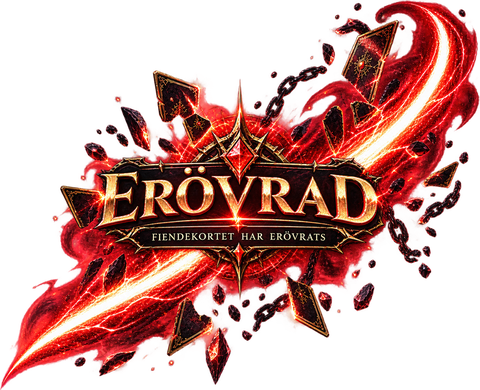
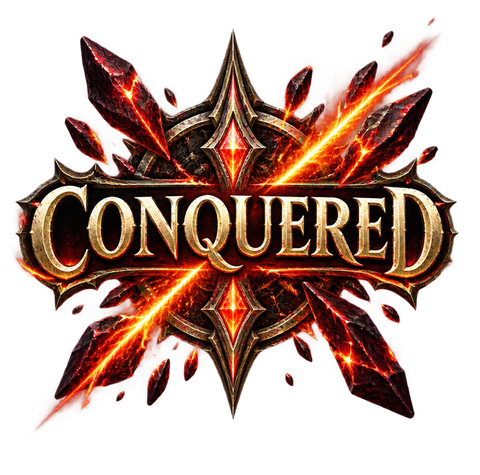
Fas 14: rebuild the "Conquered" badge -- English text, new art, per-cell
Replaces conquered-badge.png / conquered-badge-red.png with new
AI-generated art (English "CONQUERED" text, matching blue/red lightning
theme, cropped and downscaled from the user's supplied image) and
redesigns the whole delivery mechanism: from one big banner centered over
the entire arena into a small badge rendered directly on each captured
cell.

The old design needed its own showConquestPopup()/conquestPopupToken/
CONQUEST_BANNER_MS machinery specifically because a single shared image
couldn't represent more than one captured cell at once (a Same/Plus/Combo
chain or an AOE Ultimate can flip several cells in one action). The new
badge is gated directly on cell.justFlipped in boardCellHtml -- the same
flag that already drives the card's own flip animation and its existing
~1300ms cleanup -- so one instance renders per captured cell with no
separate state or timer needed. advanceTurn's AI pacing now reads
state.board.some(e => e && e.justFlipped) instead of the removed
conquestPopup flag (renamed CONQUEST_BANNER_MS -> CAPTURE_PAUSE_MS).

Three existing tests rewritten for the per-cell model (one of them
covered a bug class -- a stale flag falsely re-triggering the old GLOBAL
banner -- that structurally can't happen any more with per-cell state).
Two new tests added (red vs blue art, two simultaneous captures render
two independent badges). 143/143 green. Playwright-verified.

Claude-Session: https://claude.ai/code/session_01QUCTQPAAwJck4JUBJwvaoa

diff --git a/index.html b/index.html
@@ -1114,7 +1114,7 @@ button.end-turn:hover{ background:linear-gradient(180deg, rgba(139,110,242,0.3),
 }
 /* Fast Mode (see toggleFastMode()) -- only speeds up the ROUTINE per-move
    feedback a repeat player sits through every single flip/turn (this
-   variable, read by .cell .card.flipping/captureRing*/.conquest-banner
+   variable, read by .cell .card.flipping/captureRing*/.conquered-badge-small
    below), not the rare Ultimate cast sequences: those are the spectacle
    payoff, not friction, so they keep their full designed length even with
    Fast Mode on. */
@@ -1256,30 +1256,36 @@ button.end-turn:hover{ background:linear-gradient(180deg, rgba(139,110,242,0.3),
 .soul-star{ fill:#f2fff8; animation:soulStarTwinkle ease-in-out infinite; }
 @keyframes soulStarTwinkle{ 0%,100%{ opacity:0.25; } 50%{ opacity:1; } }
 
-/* "Conquered!" banner — a bigger, one-off flourish on top of the routine
-   attack slash. state.conquestPopup holds the owner ('blue'/'red') whose
-   capture triggered it, and the <img>'s src picks the matching artwork —
-   conquered-badge.png for the player, conquered-badge-red.png for the AI
-   (see showConquestPopup()) — since each piece is written from that
-   side's own perspective, not a generic "someone won" graphic. Centered
-   on .arena-frame rather than anchored to the captured cell: Same/Plus/
-   Combo can flip several cells in one placement, so a single
-   card-anchored popup wouldn't have one obvious home anyway. */
-.conquest-banner{
-  position:absolute; z-index:20; top:50%; left:50%;
-  /* Shrunk from 62%/340px (user feedback: "syns för mkt och förstör" --
-     it covered too much of the board and obscured the actual result). */
-  width:40%; max-width:210px;
-  transform:translate(-50%,-50%) scale(0.55);
-  opacity:0; pointer-events:none;
-  filter:drop-shadow(0 6px 22px rgba(0,0,0,0.65));
-  animation: conquestPop calc(1.4s * var(--fx-speed,1)) cubic-bezier(.2,.9,.25,1) forwards;
+/* "Conquered" badge — redesigned per the user's own request ("skriv
+   något coolare... röd och blå" + new AI-generated art) from a single
+   big banner centered over the WHOLE arena into a small badge that pops
+   up directly ON the specific cell that just got captured. This also
+   fixes a real limitation the old centered design had to work around: a
+   Same/Plus/Combo chain or an AOE Ultimate can flip several cells in one
+   action, and one big central image could never show "whose card is
+   whose" for more than one of them at once -- a per-cell badge has no
+   such problem, one instance renders per captured cell (see boardCellHtml,
+   gated on cell.justFlipped, the exact same flag that already drives the
+   card's own flip animation and its ~1300ms/fxTime(1300) cleanup window
+   used throughout placeCard/playUltimateSequence -- no separate timer or
+   state needed here). --fx-delay comes from cell.fxDelay, the same
+   Same/Plus/Combo chain stagger every other per-cell effect already uses,
+   so a multi-flip chain shows its badges cascading in one after another
+   instead of all popping in on the same frame. Src picks conquered-badge.png
+   (blue) or conquered-badge-red.png (red/AI) by cell.owner -- the capturing
+   side, read directly off the entry since a flip already updates .owner. */
+.conquered-badge-small{
+  position:absolute; z-index:6; left:50%; top:50%; width:80%; height:auto;
+  pointer-events:none;
+  filter:drop-shadow(0 3px 10px rgba(0,0,0,0.7));
+  opacity:0;
+  animation: conqueredBadgePop calc(1.05s * var(--fx-speed,1)) cubic-bezier(.2,.9,.25,1) both;
 }
-@keyframes conquestPop{
-  0%{ opacity:0; transform:translate(-50%,-50%) scale(0.55) rotate(-4deg); }
-  14%{ opacity:1; transform:translate(-50%,-50%) scale(1.08) rotate(1deg); }
-  24%{ transform:translate(-50%,-50%) scale(1) rotate(0deg); }
-  78%{ opacity:1; transform:translate(-50%,-50%) scale(1) rotate(0deg); }
+@keyframes conqueredBadgePop{
+  0%{ opacity:0; transform:translate(-50%,-50%) scale(0.45) rotate(-8deg); }
+  16%{ opacity:1; transform:translate(-50%,-50%) scale(1.1) rotate(3deg); }
+  28%{ transform:translate(-50%,-50%) scale(1) rotate(0deg); }
+  74%{ opacity:1; transform:translate(-50%,-50%) scale(1) rotate(0deg); }
   100%{ opacity:0; transform:translate(-50%,-50%) scale(0.92) rotate(0deg); }
 }
 
@@ -4415,7 +4421,6 @@ let state = {
   showSisterLore: false,  // true while the Triple Triad Sisters' backstory panel is expanded (Campaign stage 17 only)
   showGraveyard: false,   // true while the Graveyard panel (optional rule) is expanded
   winsPopup: null,        // { owner, amount } — transient "+N Wins!" toast
-  conquestPopup: false,   // false, or 'blue'/'red' while that side's "Conquered!" banner is showing
   chainShake: false,      // true briefly after a large Same/Plus/Combo chain (see placeCard) — .arena-frame.chain-shake
   impactPunch: false,     // true briefly at the exact moment ANY Ultimate's effect lands (every card, not magnitude-gated like chainShake) — .board.impact-punch, see playUltimateSequence
   ultimateBanner: null,   // { phase:'cast'|'impact', owner, name, sourceIndex } while an Ultimate's windup/impact sequence plays — see runSpecialResolution/playUltimateSequence
@@ -5087,6 +5092,7 @@ function boardCellHtml(cell, i, previewVulnerable){
           specialInfo, specialActive: !!(state.specialMode && state.specialMode.sourceIndex === i)
         }) : (ghost ? cardFace(ghost.card, { owner:ghost.owner, destroyed:true, noInfo:true }) : '')}
       ${capturePreview && capturePreview.captures > 0 ? `<div class="capture-badge">⚔ ${capturePreview.captures}</div>` : ''}
+      ${cell && cell.justFlipped ? `<img class="conquered-badge-small" src="conquered-badge${cell.owner === 'red' ? '-red' : ''}.png" alt="Conquered" aria-hidden="true" style="animation-delay:${cell.fxDelay || 0}ms;">` : ''}
     </div>
   `;
 }
@@ -5881,7 +5887,6 @@ function renderBattle(){
           `).join('')}
         </div>
       ` : ''}
-      ${state.conquestPopup ? `<img class="conquest-banner" src="conquered-badge${state.conquestPopup === 'red' ? '-red' : ''}.png" alt="Conquered!">` : ''}
       ${state.ultimateBanner ? `
         <div class="ultimate-banner ultimate-banner-${state.ultimateBanner.phase} owner-${state.ultimateBanner.owner}">
           <div class="ultimate-banner-label">${state.ultimateBanner.owner === 'blue' ? 'Special Attack' : "Forest's Special Attack"}</div>
@@ -7481,42 +7486,30 @@ function isShielded(targetEntry, targetIndex){
   return false;
 }
 
-// "Conquered!" banner — one piece of art per side (conquered-badge.png for
-// the player, conquered-badge-red.png for the AI), each written from that
-// side's own perspective, so both captures get the flourish now. Uses a
-// token instead of a bare setTimeout so that a second capture landing
-// while the first banner is still up (e.g. a placement capture immediately
-// followed by a special) restarts the window instead of the earlier timer
-// clearing it out from under the newer one. Duration must match
-// .conquest-banner's `conquestPop` animation length in the CSS below —
-// bumped from an original 1s to 1.4s after playtester feedback that
-// captures (this banner included) flew by too fast to actually see.
-const CONQUEST_BANNER_MS = 1400;
+// Game-feel pacing: how long to make the AI wait after a capture before
+// acting, so the player actually gets to see the small per-cell
+// "Conquered" badge land (see boardCellHtml/.conquered-badge-small)
+// before the next move piles more animation on top. Redesigned away from
+// a single big centered banner (see PROJECT.md) into a badge rendered
+// directly on each captured cell, gated on cell.justFlipped -- the same
+// flag that already drives the card's own flip animation and its
+// ~1300ms/fxTime(1300) cleanup window, so no separate popup state/token
+// is needed any more; advanceTurn below just checks state.board directly
+// for that same flag instead of a dedicated conquestPopup field.
+const CAPTURE_PAUSE_MS = 1400;
 
 // Fast Mode (see toggleFastMode()): scales the ROUTINE per-move waits a
-// repeat player sits through every match -- flip stagger, conquest banner,
-// short between-turn pauses -- down to a snappier pace. Deliberately NOT
+// repeat player sits through every match -- flip stagger, the capture
+// pause, short between-turn pauses -- down to a snappier pace. Deliberately NOT
 // applied to ULTIMATE_WINDUP_MS/SHAKE_MS/CLEANUP_MS below: those gate the
 // rare Special-cast spectacle sequences, which are the payoff a player is
 // watching FOR, not friction to cut. Keep this numerically in sync with
 // .arena-frame.fast-mode's --fx-speed in the CSS above -- both scale the
-// same on-screen moment (the flip/banner animation is CSS-timed; this is
+// same on-screen moment (the flip/badge animation is CSS-timed; this is
 // how long JS then waits before the next render/turn).
 const FAST_MODE_SCALE = 0.4;
 function fxTime(ms){
   return state.fastMode ? Math.round(ms * FAST_MODE_SCALE) : ms;
-}
-
-let conquestPopupToken = 0;
-function showConquestPopup(owner){
-  const token = ++conquestPopupToken;
-  state.conquestPopup = owner;
-  setTimeout(()=>{
-    if(conquestPopupToken === token){
-      state.conquestPopup = false;
-      render();
-    }
-  }, fxTime(CONQUEST_BANNER_MS));
 }
 
 // On-placement effects for the Triple Triad Sisters (Void Touch/Undying
@@ -7855,7 +7848,6 @@ function placeCard(cellIndex, cardId, owner){
   }
   if(flips > 0) state.wins[owner] += flips;
   if(flips > 0) state.winsPopup = { owner, amount: flips };
-  if(flips > 0) showConquestPopup(owner);
   if(flips > 0) setTimeout(()=> SFX.flip(flips), fxTime(120));
   if(shielded > 0) setTimeout(()=> SFX.shield(), fxTime(90));
   if(bonusTriggered) setTimeout(()=> SFX.bonus(), fxTime(shielded > 0 ? 260 : 90));
@@ -7915,10 +7907,12 @@ function advanceTurn(owner){
     setTimeout(finishGame, fxTime(500));
     return;
   }
-  // A capture just happened (conquest banner still up) → give the player
-  // a beat to actually see it before the AI's own flip/slash/banner pile
-  // on top. No capture → keep the old snappy pace, nothing to catch up on.
-  const nextTurnDelay = state.conquestPopup ? fxTime(CONQUEST_BANNER_MS + 200) : fxTime(700);
+  // A capture just happened (some cell is still mid-flip, see
+  // cell.justFlipped/.conquered-badge-small) → give the player a beat to
+  // actually see it before the AI's own flip/slash/badge pile on top. No
+  // capture → keep the old snappy pace, nothing to catch up on.
+  const capturedJustNow = state.board.some(e => e && e.justFlipped);
+  const nextTurnDelay = capturedJustNow ? fxTime(CAPTURE_PAUSE_MS + 200) : fxTime(700);
   if(state.extraTurnPending === owner){
     state.extraTurnPending = null;
     state.placedThisTurn = false;
@@ -9785,7 +9779,7 @@ function playUltimateSequence(job){
   render();
 
   setTimeout(()=>{
-    if(ultimateBannerToken !== token) return; // superseded — shouldn't happen given the queue above, but matches showConquestPopup's own safety pattern
+    if(ultimateBannerToken !== token) return; // superseded — shouldn't happen given the queue above, same token-guard pattern used throughout this file
     srcEntry.ultimateCasting = false;
 
     // Phase 2: the hit visually LANDS now -- banner switches to its
@@ -9824,9 +9818,6 @@ function playUltimateSequence(job){
       state.board.forEach((e, i) => { if(e && e.justFlipped) alreadyFlipped.add(i); });
       state.log = handler({ srcEntry, sourceIndex, targetEntry, targetIndex, owner, ...extra });
       const capturedCount = state.board.filter((e, i) => e && e.owner === owner && e.justFlipped && !alreadyFlipped.has(i)).length;
-      if(capturedCount > 0){
-        showConquestPopup(owner);
-      }
       // Same magnitude-gated shake as phase 3's Same/Combo chains (see
       // placeCard) — a big Ultimate sweep feels like a big chain, reuses the
       // same .arena-frame.chain-shake mechanism rather than a new one.
@@ -10832,7 +10823,7 @@ function resetGame(){
     phase:'draft', selected:keepSelected, board: Array(9).fill(null),
     playerHand:[], enemyHand:[], turn:'blue', pendingCard:null,
     log:'Choose the five champions who will carry your banner.', winner:null,
-    viewingCard:null, showRulebook:false, rulebookPage:0, showSisterLore:false, showGraveyard:false, winsPopup:null, conquestPopup:false, chainShake:false, impactPunch:false, ultimateBanner:null, campaignUnlocked:null, newAchievements:[], rules: keepRules, draftMode: keepMode, revealing: false,
+    viewingCard:null, showRulebook:false, rulebookPage:0, showSisterLore:false, showGraveyard:false, winsPopup:null, chainShake:false, impactPunch:false, ultimateBanner:null, campaignUnlocked:null, newAchievements:[], rules: keepRules, draftMode: keepMode, revealing: false,
     wins: { blue: 0, red: 0 }, specialUsed: {}, specialMode: null, extraTurnPending: null, placedThisTurn: false,
     turnCount: 0, graveyard: { blue: [], red: [] }, destroyGhosts: [], odinSlashes: [],
     tutorialActive: false, tutorialStep: 0, aiDifficulty: keepAiDifficulty, fastMode: keepFastMode,

diff --git a/PROJECT.md b/PROJECT.md
@@ -3752,6 +3752,86 @@ sig synligt över HELA arenan (inte bara en cell) innan de bleknar när
 alla tre fiendekorten är förstörda. Ingen konsol/page-error i något
 test.
 
+**Fas 14: "Erövrad"-badgen ombyggd — engelsk text, ny AI-genererad
+konst, och från en stor centrerad banderoll till en liten badge PER
+erövrat kort.** Användaren frågade om vi skulle ta bort hela
+"Erövrad"-slashen nu när Ultimate-VFX:en blivit mycket coolare (Fas
+8-13) — den gamla bilden (`conquered-badge.png`/`-red.png`) visade sig
+ha "ERÖVRAD" + "FIENDEKORTET HAR ERÖVRATS" inbakat direkt i konstverket,
+inte i koden. Efter en kort diskussion (se AskUserQuestion-liknande
+utbyte i chatten) landade vi på: byt inte bort effekten helt (den är
+fortfarande den ENDA flourishen en vanlig 1-korts-fångst får), men bygg
+om den — mindre, på engelska, och sittande direkt PÅ det erövrade
+kortet istället för stort och centrerat över hela brädet.
+
+Eftersom texten satt fast i bilden och den här miljön saknar
+bildgenereringsverktyg skrev jag åt användaren två färdiga
+bildgenererings-prompts (en blå, en röd) att klistra in i ChatGPT/
+DALL-E, medvetet hållna enklare/mer högkontrast än originalet eftersom
+en lika detaljerad bild (kedjor, rök, mängder splitter) hade blivit
+oläslig i den mindre storleken. Användaren skickade tillbaka en bild med
+båda badgesen sida vid sida ("CONQUERED" i guld-beveled fantasy-typografi,
+blå respektive röd blixt/eld-tema) — delades upp i två separata filer med
+Pillow (tight-crop mot alfa-kanalen + nedskalning till 480px, samma
+filstorlek som originalen) och sparades under exakt samma filnamn som
+förut (`conquered-badge.png`/`conquered-badge-red.png`) så ingen kodväg
+behövde ändras.
+
+Den strukturella ombyggnaden var större än bara en bildbyte:
+
+1. **Från ett globalt `state.conquestPopup`-flagga till ett rent
+   per-cell-derat mönster.** Den gamla banderollen behövde en egen
+   `showConquestPopup()`-funktion med sin egen token/timer (samma mönster
+   som `ultimateBannerToken`) eftersom den var en enda delad bild som
+   inte kunde "höra hemma" på ett specifikt kort vid en Same/Plus/Combo-
+   kedja eller en AOE-Ultimate som flippar flera celler samtidigt — det
+   var uttryckligen DÄRFÖR den låg centrerad över hela arenan (dokumenterat
+   i en gammal kommentar). Den nya badgen renderas istället direkt i
+   `boardCellHtml`, gated på `cell.justFlipped` — SAMMA flagga som redan
+   driver kortets egen flip-animation och dess befintliga
+   ~1300ms/`fxTime(1300)`-cleanup — så ingen separat state/timer behövs
+   längre alls. Löser multi-cell-begränsningen helt naturligt: en
+   instans renderas per fångat kort, med `cell.fxDelay` (samma
+   Same/Plus/Combo-kedje-stagger varje annat per-cell-effekt redan
+   använder) så flera badges i en kedja poppar in i en kaskad istället
+   för samtidigt.
+2. **`showConquestPopup`/`conquestPopupToken`/`CONQUEST_BANNER_MS` togs
+   bort helt** (två anropsplatser: `placeCard`s flip-hantering och
+   `playUltimateSequence`s capture-count-koll). `advanceTurn`s AI-paus-
+   logik (som använde `state.conquestPopup` för att avgöra om AI:n skulle
+   vänta lite extra efter en fångst) läser nu istället
+   `state.board.some(e => e && e.justFlipped)` direkt — samma
+   underliggande signal, bara utan mellanhanden. Konstanten döptes om
+   till `CAPTURE_PAUSE_MS` (samma värde, 1400ms, samma playtestade
+   paceringskänsla — bara namnet som beskrev en nu borttagen banderoll
+   var missvisande).
+
+Ett riktigt designfynd under arbetet (inte bara en refaktorering): det
+gamla systemets tredje test ("en `justFlipped`-kvarleva på en annan cell
+ska INTE ge en falsk positiv") skyddade mot ett helt annat buggmönster
+som bara existerade för att banderollen var GLOBAL — en kvarvarande
+flagga på ett kort kunde tidigare felaktigt trigga banderollen för en
+SENARE, orelaterad, icke-fångande handling. I det nya per-cell-systemet
+finns inget sådant globalt tillstånd att korrumpera: en kvarvarande
+flagga på ett kort visar bara det kortets EGEN, fortfarande giltiga,
+badge — inget att skydda mot längre. Testet skrevs om för att istället
+verifiera den nya (enklare) korrekthetsgarantin direkt.
+
+Verifierat: `node --check` grönt. Tre befintliga "conquest banner"-tester
+skrevs om till det nya per-cell-mönstret (inklusive fyndet ovan), plus
+två helt nya tester (röd sida använder rätt bild och aldrig den blå;
+en tvåcells-AOE-fångst — Pallis & Pells Hunter's Wrath — renderar TVÅ
+separata badge-instanser, en per erövrat kort, istället för en delad;
+badgen försvinner med exakt samma cleanup-fönster som allt annat
+per-cell-flip-tillstånd). Hela testsviten grön: **143/143** (141
+tidigare + 2 nya, netto +2 efter att 3 gamla ersattes 1:1 och 2 helt nya
+lades till). Playwright-skärmdumpar bekräftar hela flödet visuellt: en
+liten blå badge sitter prydligt centrerad ovanpå det just erövrade
+kortet (inte längre stort och centrerat över hela brädet); samma för röd
+sida; och Hunter's Wrath-skärmdumpen visar tydligt TVÅ separata badges,
+en på vardera av de två samtidigt erövrade korten. Ingen konsol/page-
+error i något test.
+
 **54. Tiamat och Three Head Dragon — andra ombyggnaden av två redan
 "rena" kort, på användarens egen begäran** ("jag hade velat göra om
 tiamat och tree head dragon"), inte från audit-listan (båda var sedan
